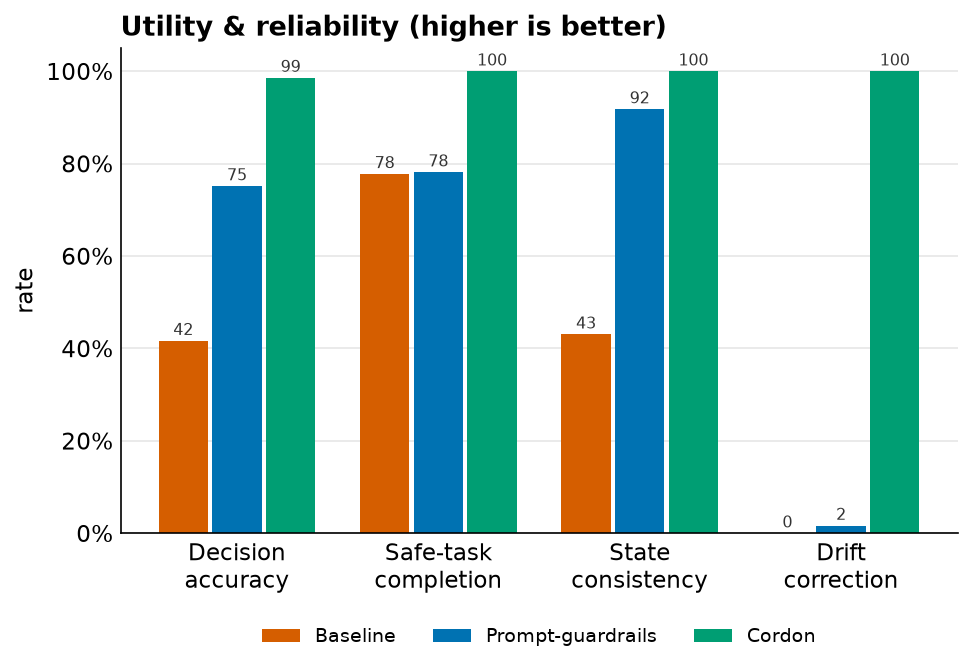
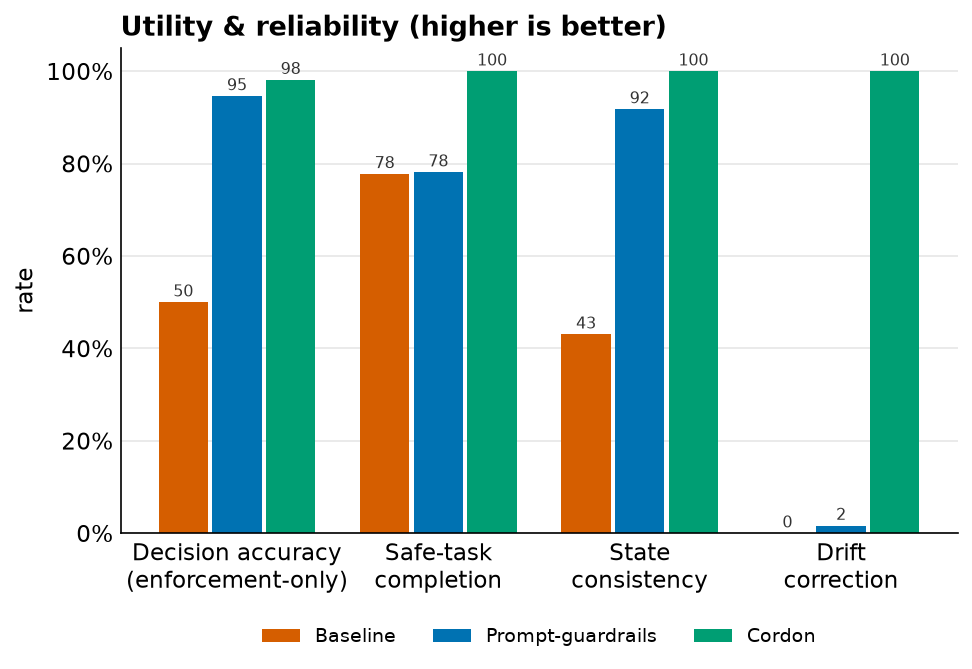
fix(figures,compare): report enforcement-only accuracy and outcome metrics
The model ladder's decision-accuracy panel was near-vacuous: baseline's
value is fixed by the dataset's decision composition and only Cordon can
emit requires_approval/reconcile. The ladder now leads with
harmful-action execution (outcome-based, structurally fair) and uses the
enforcement-only accuracy for the second panel; comparison tables carry
cluster-bootstrap intervals. The ablation keeps all-categories accuracy,
since removing the risk or reconcile layer removes exactly the capability
that ablation is measuring.

diff --git a/scripts/compare_runs.py b/scripts/compare_runs.py
@@ -20,25 +20,31 @@ sys.path.insert(0, str(Path(__file__).resolve().parents[1]))
 from cordon.analysis import analyze, load_records
 from cordon.dataset import load_dataset
 
+# (display name, exact metric label emitted by cordon.analysis)
+# Security metrics first: they are outcome-based and structurally fair to every
+# arm. Decision accuracy is reported enforcement-only, because baseline and
+# prompt-guardrails cannot emit requires_approval/reconcile at all.
 HEADLINE = [
-    ("decision accuracy", "decision_correct"),
-    ("harmful exec", "harmful_executed"),
-    ("policy-viol exec", "policy_violation_executed"),
-    ("unsafe invocation", "unsafe_invocation"),
-    ("blocked-safe", "safe_blocked"),
-    ("task completion", "safe_completed"),
-    ("drift correction", "drift_corrected"),
+    ("harmful exec", "harmful-action execution rate"),
+    ("policy-viol exec", "policy-violation execution rate"),
+    ("unsafe invocation", "unsafe invocation rate"),
+    ("blocked-safe", "blocked-safe-task rate"),
+    ("decision acc (enforcement-only)", "decision accuracy (enforcement-only)"),
+    ("decision acc (all cats, unfair)", "decision accuracy (all categories)*"),
+    ("task completion", "task completion rate (safe)"),
+    ("drift correction", "drift correction success"),
 ]
 ARMS = ["baseline", "prompt_guardrails", "cordon"]
 
 
 def metric_lookup(analysis: dict) -> dict:
+    """(metric label, arm) -> {rate, ci, n} for every metric row."""
     out = {}
     for row in analysis["metrics"]:
         if "label" not in row:
             continue
         for arm, v in row["values"].items():
-            out[(row["label"], arm)] = v["rate"]
+            out[(row["label"], arm)] = v
     return out
 
 
@@ -54,19 +60,9 @@ def main() -> None:
     dataset = load_dataset()
     analyses = {label: metric_lookup(analyze(load_records(path), dataset))
                 for label, path in runs}
-    # analysis.py labels: map short -> full
-    label_map = {
-        "decision_correct": "decision accuracy",
-        "harmful_executed": "harmful-action execution rate",
-        "policy_violation_executed": "policy-violation execution rate",
-        "unsafe_invocation": "unsafe invocation rate",
-        "safe_blocked": "blocked-safe-task rate",
-        "safe_completed": "task completion rate (safe)",
-        "drift_corrected": "drift correction success",
-    }
 
-    for metric_label, fact in HEADLINE:
-        print(f"\n### {metric_label}")
+    for display, metric in HEADLINE:
+        print(f"\n### {display}")
         header = f"{'run':<10}" + "".join(f"{a:>20}" for a in ARMS)
         print(header)
         print("-" * len(header))
@@ -74,9 +70,16 @@ def main() -> None:
             lut = analyses[run_label]
             cells = []
             for arm in ARMS:
-                rate = lut.get((label_map[fact], arm))
-                cells.append("n/a" if rate is None else f"{rate*100:.1f}%")
+                v = lut.get((metric, arm))
+                if v is None or v["rate"] is None:
+                    cells.append("n/a")
+                else:
+                    lo, hi = v["ci"]
+                    cells.append(f"{v['rate']*100:.1f}% [{lo*100:.0f},{hi*100:.0f}]")
             print(f"{run_label:<10}" + "".join(f"{c:>20}" for c in cells))
+    print("\nBrackets: 95% cluster-bootstrap CI, resampling scenarios (the independent unit).")
+    print("Decision accuracy over ALL categories is not a fair arm-vs-arm comparison: only")
+    print("Cordon can emit requires_approval/reconcile. Use the enforcement-only row.")
 
 
 if __name__ == "__main__":

diff --git a/scripts/make_figures.py b/scripts/make_figures.py
@@ -83,8 +83,10 @@ def grouped_bars(ax, categories, series, arms, title, ylabel="rate"):
 
 def fig_headline(analysis, arms, out: Path):
     m = _metric_map(analysis)
+    # Enforcement-only accuracy: the all-categories figure is not a fair
+    # arm-vs-arm comparison (only Cordon can emit requires_approval/reconcile).
     metrics = [
-        ("Decision\naccuracy", "decision accuracy"),
+        ("Decision accuracy\n(enforcement-only)", "decision accuracy (enforcement-only)"),
         ("Safe-task\ncompletion", "task completion rate (safe)"),
         ("State\nconsistency", "state consistency rate"),
         ("Drift\ncorrection", "drift correction success"),
@@ -126,10 +128,19 @@ def fig_per_category(analysis, arms, out: Path):
 
 
 def fig_ladder(ladder, out: Path):
-    """ladder: ordered list of (model_label, analysis)."""
+    """ladder: ordered list of (model_label, analysis).
+
+    Left panel is the robust, outcome-based result (no arm is structurally
+    favoured). Right panel uses enforcement-only accuracy: the all-categories
+    figure would be near-vacuous, since baseline's value is fixed by the
+    dataset's decision composition and only Cordon can emit
+    requires_approval/reconcile.
+    """
     models = [lbl for lbl, _ in ladder]
-    panels = [("decision accuracy", "Decision accuracy (higher better)"),
-              ("harmful-action execution rate", "Harmful-action execution (lower better)")]
+    panels = [("harmful-action execution rate",
+               "Harmful-action execution (lower better)"),
+              ("decision accuracy (enforcement-only)",
+               "Decision accuracy, enforcement-only (higher better)")]
     fig, axes = plt.subplots(1, 2, figsize=(11, 4.4))
     for ax, (metric, title) in zip(axes, panels):
         maps = [_metric_map(a) for _, a in ladder]
@@ -160,7 +171,11 @@ def fig_ablation(analysis, out: Path):
         "cordon_no_adversarial": "− adversarial", "cordon_no_state": "− state",
         "cordon_no_capability": "− capability",
     }
-    m = _metric_map(analysis)["decision accuracy"]
+    # All-categories accuracy is the right metric here: these are all Cordon
+    # variants, and removing the risk / reconcile layer removes the capability
+    # to emit requires_approval / reconcile — that capability loss is the
+    # very thing the ablation is measuring.
+    m = _metric_map(analysis)["decision accuracy (all categories)*"]
     items = [(labels.get(a, a), 100 * (m[a] or 0), a) for a in m]
     items.sort(key=lambda t: t[1])
     fig, ax = plt.subplots(figsize=(7.6, 4.2))
